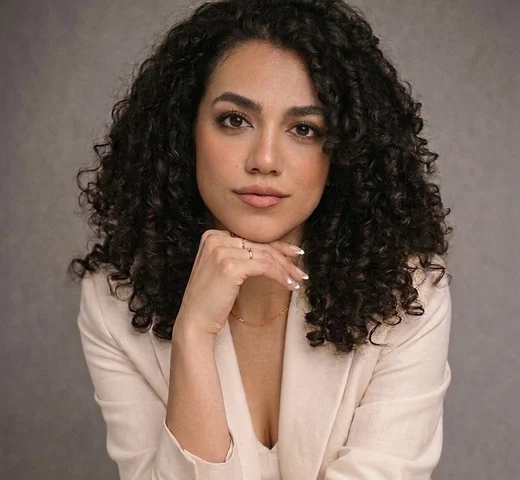
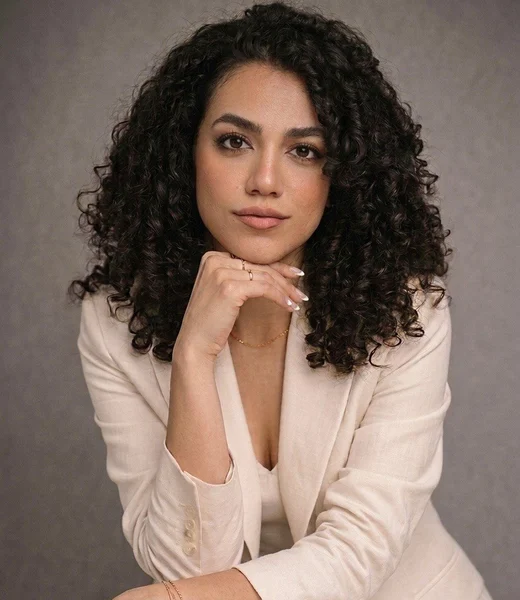
Badge: taller photo showing down past the elbow
Claude-Session: https://claude.ai/code/session_01EdWknkHh38SWjAVomxPXbF

diff --git a/components/IdBadge.tsx b/components/IdBadge.tsx
@@ -190,7 +190,7 @@ export function IdBadge() {
   const { badge } = profile;
 
   return (
-    <div className="relative h-[546px] w-[350px]">
+    <div className="relative h-[606px] w-[350px]">
       <div
         ref={swingRef}
         className="absolute inset-0 will-change-transform"
@@ -211,7 +211,7 @@ export function IdBadge() {
           <div className="absolute inset-x-0 bottom-0 top-[24.27px] rounded-b-[16px] bg-white" />
           <div className="absolute left-[148px] top-[20px] h-[12px] w-[54px] rounded-[40px] bg-slot" />
 
-          <div className="absolute left-[45px] top-[35px] h-[240px] w-[260px] overflow-hidden rounded-[10px] bg-placeholder">
+          <div className="absolute left-[45px] top-[35px] h-[300px] w-[260px] overflow-hidden rounded-[10px] bg-placeholder">
             {badge.photo && (
               // eslint-disable-next-line @next/next/no-img-element
               <img
@@ -223,13 +223,13 @@ export function IdBadge() {
             )}
           </div>
 
-          <div className="absolute left-[45px] top-[294px] flex w-[260px] flex-col items-center gap-[2px] font-bold leading-normal">
+          <div className="absolute left-[45px] top-[354px] flex w-[260px] flex-col items-center gap-[2px] font-bold leading-normal">
             <p className="text-[24px]">{profile.name}</p>
             <p className="text-[18px]">{profile.role}</p>
           </div>
 
-          <div className="absolute left-[45px] top-[352px] h-[131px] w-[260px] rounded-[16px] border border-muted/30" />
-          <dl className="absolute left-[60px] top-[363px] flex h-[100px] w-[114px] flex-col justify-between text-[14px]">
+          <div className="absolute left-[45px] top-[412px] h-[131px] w-[260px] rounded-[16px] border border-muted/30" />
+          <dl className="absolute left-[60px] top-[423px] flex h-[100px] w-[114px] flex-col justify-between text-[14px]">
             <div className="flex flex-col gap-[3px]">
               <dt className="font-bold leading-normal">Specializations</dt>
               <dd className="whitespace-nowrap leading-5 text-muted">{badge.specializations}</dd>
@@ -239,7 +239,7 @@ export function IdBadge() {
               <dd className="leading-5 text-muted">{badge.focus}</dd>
             </div>
           </dl>
-          <dl className="absolute left-[192px] top-[363px] flex w-[97px] flex-col gap-5 text-[14px]">
+          <dl className="absolute left-[192px] top-[423px] flex w-[97px] flex-col gap-5 text-[14px]">
             <div className="flex flex-col gap-[3px]">
               <dt className="font-bold leading-normal">Status</dt>
               <dd className="flex items-center gap-[5px] whitespace-nowrap leading-5 text-open">
@@ -253,12 +253,12 @@ export function IdBadge() {
             </div>
           </dl>
 
-          <div className="absolute left-[193px] top-[496px] flex items-end gap-[3px]" aria-hidden>
+          <div className="absolute left-[193px] top-[556px] flex items-end gap-[3px]" aria-hidden>
             {BARS.map(([w, h], i) => (
               <span key={i} className="block bg-ink" style={{ width: w, height: h }} />
             ))}
           </div>
-          <p className="absolute left-[45px] top-[510px] text-[14px] leading-normal text-muted">{badge.id}</p>
+          <p className="absolute left-[45px] top-[570px] text-[14px] leading-normal text-muted">{badge.id}</p>
         </article>
 
         {/* lanyard clip sits over the card */}

diff --git a/components/sections/Intro.tsx b/components/sections/Intro.tsx
@@ -78,7 +78,7 @@ export function IntroContent() {
         </ul>
       </section>
 
-      <div className="order-first flex h-[490px] justify-center pt-10 sm:h-auto lg:order-none lg:block lg:pt-[162px]">
+      <div className="order-first flex h-[540px] justify-center pt-10 sm:h-auto lg:order-none lg:block lg:pt-[162px]">
         <div className="origin-top scale-[0.86] sm:scale-100">
           <IdBadge />
         </div>
